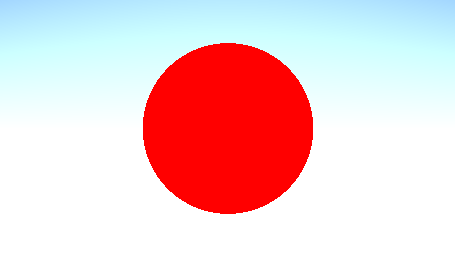
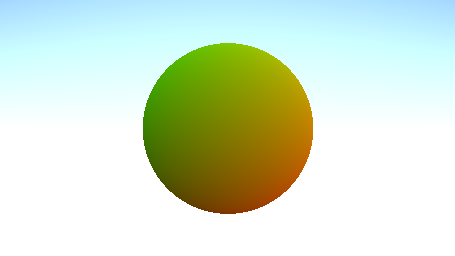
shade

Changed region(s): [[0.3077, 0.1562, 0.7077, 0.8438]]

diff --git a/src/lib.rs b/src/lib.rs
@@ -67,16 +67,17 @@ impl World {
         let ray = Ray { pos: ray_pos, way: ray_way };
 
         let sphere = Sphere { pos: V3(0., 0., -1.), radius: 0.1 };
-        let rw = camera.pos - sphere.pos;
-        let ra = ray.way.sq_len();
-        let rb = ray.way.dot(rw);
-        let rc = rw.sq_len() - sphere.radius;
-        let det = rb * rb - ra * rc;
-
-        let t = 0.5 * (ray.way.1 + 1.);
-        let back = V3(1., 1., 1.) * (1.0 - t) + V3(0.5, 0.7, 1.);
-        let sphere_color = V3(1., 0., 0.);
-        return if det >= 0. { sphere_color } else { back };
+        let hit = sphere.hit(ray);
+        if hit >= 0. {
+            let sphere_color = V3(1., 0., 0.);
+            let hit_pos = ray.at(hit);
+            let sphere_color = V3(hit_pos.0 + 0.5, hit_pos.1 + 0.5, hit_pos.2 + 0.5);
+            return sphere_color;
+        } else {
+            let t = 0.5 * (ray.way.1 + 1.);
+            let back = V3(1., 1., 1.) * (1.0 - t) + V3(0.5, 0.7, 1.);
+            return back;
+        };
     }
 }
 
@@ -91,7 +92,22 @@ impl Ray {
     }
 }
 
+#[derive(Debug, Clone, Copy)]
 struct Sphere {
     pos: Point,
     radius: f64,
+}
+impl Sphere {
+    fn hit(self, ray: Ray) -> f64 {
+        let rw = ray.pos - self.pos;
+        let ra = ray.way.sq_len();
+        let rb = ray.way.dot(rw);
+        let rc = rw.sq_len() - self.radius;
+        let det = rb * rb - ra * rc;
+        if det < 0. {
+            -1.
+        } else {
+            (-rb - det.sqrt()) / ra
+        }
+    }
 }
